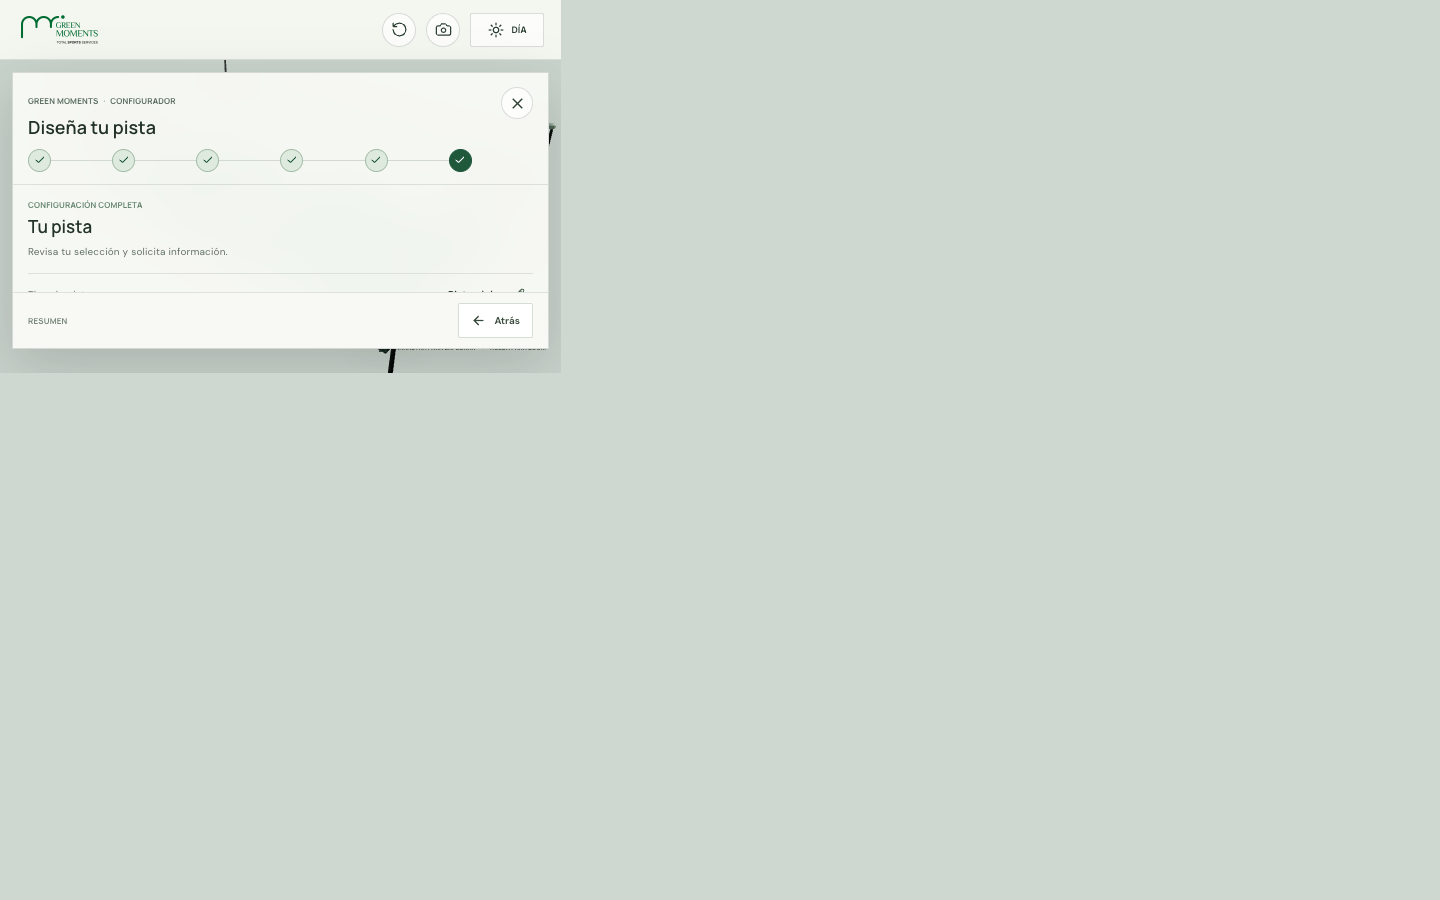
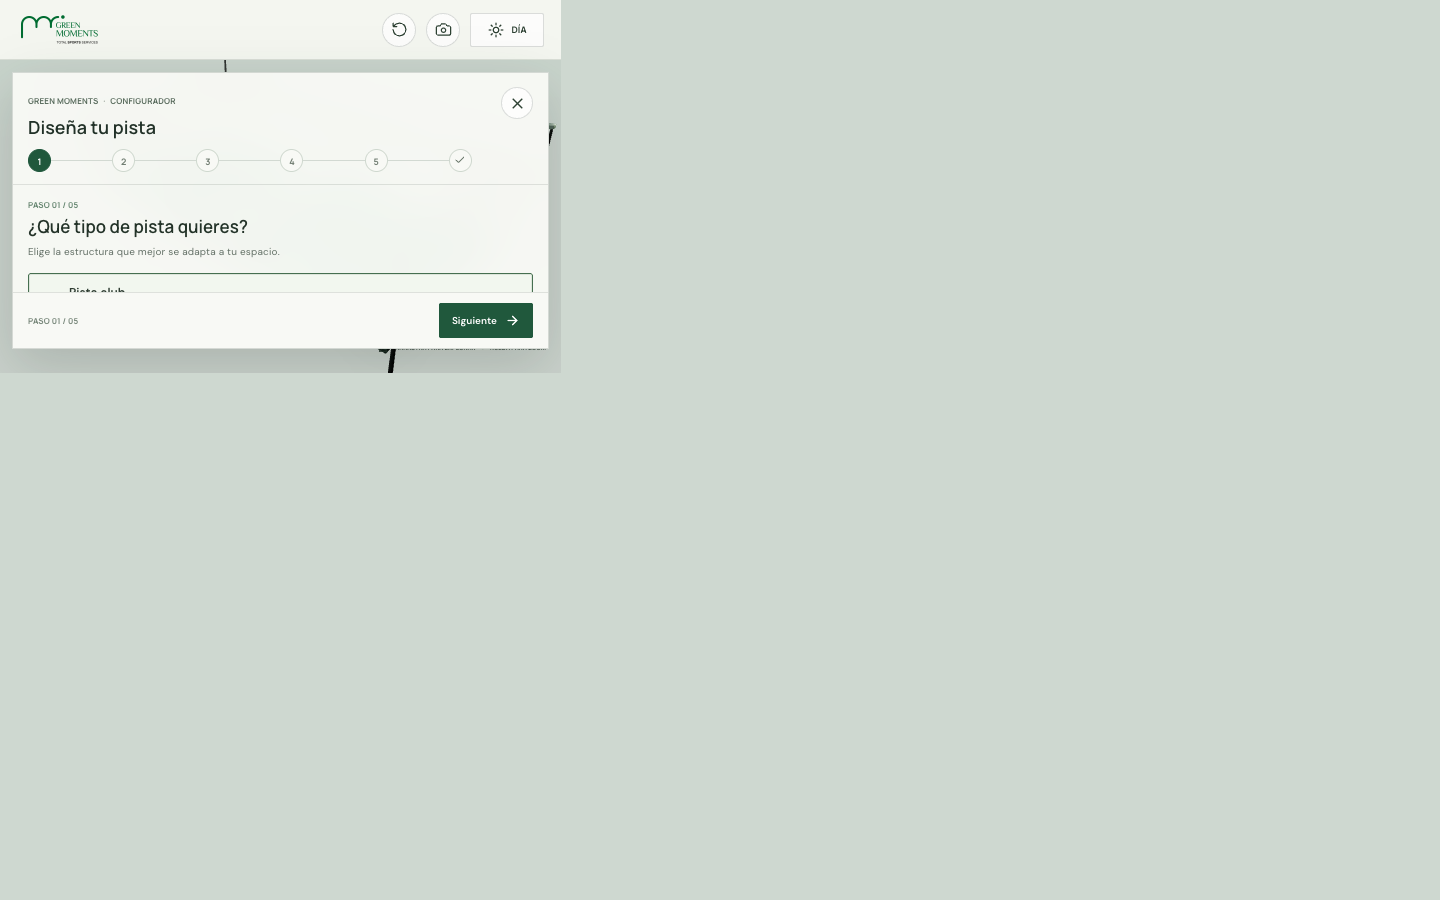
Remove empty help control

diff --git a/src/App.css b/src/App.css
@@ -221,9 +221,9 @@ button:focus-visible, a:focus-visible { outline: 2px solid #4b815b; outline-offs
 .live-dot { width: 6px; height: 6px; border-radius: 50%; background: #73a951; box-shadow: 0 0 0 3px rgba(115,169,81,.13); }
 .meta-divider { color: #a4ada5; }
 .topbar-actions { display: flex; align-items: center; gap: 10px; }
-.icon-button, .light-toggle, .help-button { display: inline-flex; align-items: center; justify-content: center; border: 1px solid rgba(36,53,42,.15); color: #344a39; background: rgba(255,255,255,.72); cursor: pointer; transition: background .2s ease, border-color .2s ease, transform .2s ease; }
+.icon-button, .light-toggle { display: inline-flex; align-items: center; justify-content: center; border: 1px solid rgba(36,53,42,.15); color: #344a39; background: rgba(255,255,255,.72); cursor: pointer; transition: background .2s ease, border-color .2s ease, transform .2s ease; }
 .icon-button { width: 36px; height: 36px; border-radius: 50%; }
-.icon-button:hover, .help-button:hover { background: #fff; border-color: #65846c; transform: translateY(-1px); }
+.icon-button:hover { background: #fff; border-color: #65846c; transform: translateY(-1px); }
 .reference-toggle:hover { transform: none; }
 .light-toggle { gap: 8px; min-width: 85px; height: 36px; padding: 0 12px; border-radius: 2px; }
 .light-toggle:hover { background: #fff; border-color: #65846c; }
@@ -246,7 +246,6 @@ button:focus-visible, a:focus-visible { outline: 2px solid #4b815b; outline-offs
 .reference-foot span:last-child { flex: 0 0 auto; }
 .interaction-hint { position: absolute; left: 50%; bottom: 20px; display: flex; align-items: center; gap: 9px; color: rgba(35,54,41,.8); transform: translateX(-50%); white-space: nowrap; font-size: 8px; z-index: 1; pointer-events: none; }
 .hint-dot { color: #849786; font-size: 13px; }
-.help-button { position: absolute; right: 49px; top: 95px; width: 35px; height: 35px; border-radius: 50%; z-index: 2; }
 .edge-coordinate { position: absolute; color: rgba(42,62,47,.58); font-size: 8px; z-index: 1; pointer-events: none; }
 .coordinate-top { top: 95px; left: 49px; }
 .coordinate-top span { margin: 0 4px; color: #8ca18d; }
@@ -265,7 +264,6 @@ button:focus-visible, a:focus-visible { outline: 2px solid #4b815b; outline-offs
   .reference-panel { right: 24px; bottom: 35px; width: 205px; }
   .reference-image { height: 88px; }
   .coordinate-top { left: 26px; top: 82px; }
-  .help-button { right: 24px; top: 82px; }
   .coordinate-bottom { display: none; }
 }
 @media (max-width: 600px) {
@@ -286,7 +284,6 @@ button:focus-visible, a:focus-visible { outline: 2px solid #4b815b; outline-offs
   .interaction-hint { right: 15px; bottom: 13px; left: auto; gap: 6px; transform: none; font-size: 6px; }
   .interaction-hint svg { width: 12px; height: 12px; }
   .hint-dot { font-size: 10px; }
-  .help-button { top: 76px; right: auto; left: 15px; width: 31px; height: 31px; }
   .coordinate-top { top: 115px; left: 19px; font-size: 7px; }
 }
 @media (prefers-reduced-motion: reduce) { *, *::before, *::after { animation-duration: .01ms !important; animation-iteration-count: 1 !important; scroll-behavior: auto !important; } }

diff --git a/src/App.tsx b/src/App.tsx
@@ -2,7 +2,7 @@ import { Suspense, useEffect, useMemo, useState } from 'react'
 import { Canvas } from '@react-three/fiber'
 import { ContactShadows, OrbitControls, useTexture } from '@react-three/drei'
 import { BufferGeometry, CanvasTexture, Float32BufferAttribute, RepeatWrapping, SRGBColorSpace } from 'three'
-import { ArrowLeft, ArrowRight, Camera, Check, CircleHelp, Mail, Moon, Move3D, Pencil, RotateCcw, SlidersHorizontal, Sun, X } from 'lucide-react'
+import { ArrowLeft, ArrowRight, Camera, Check, Mail, Moon, Move3D, Pencil, RotateCcw, SlidersHorizontal, Sun, X } from 'lucide-react'
 import './App.css'
 
 const courtTypes = [
@@ -393,7 +393,6 @@ function App() {
       </aside>
 
       <div className="interaction-hint"><Move3D size={15} strokeWidth={1.7} /><span>ARRASTRA PARA EXPLORAR</span><span className="hint-dot">·</span><span>RUEDA PARA ZOOM</span></div>
-      <button className="help-button" type="button" title="Visualización conceptual de pista de pádel" aria-label="Acerca de esta visualización"><CircleHelp size={17} strokeWidth={1.7} /></button>
       <div className="edge-coordinate coordinate-top">40°12′ N <span>·</span> 3°55′ O</div>
       <div className="edge-coordinate coordinate-bottom">GM / PÁDEL 2026</div>
     </main>
